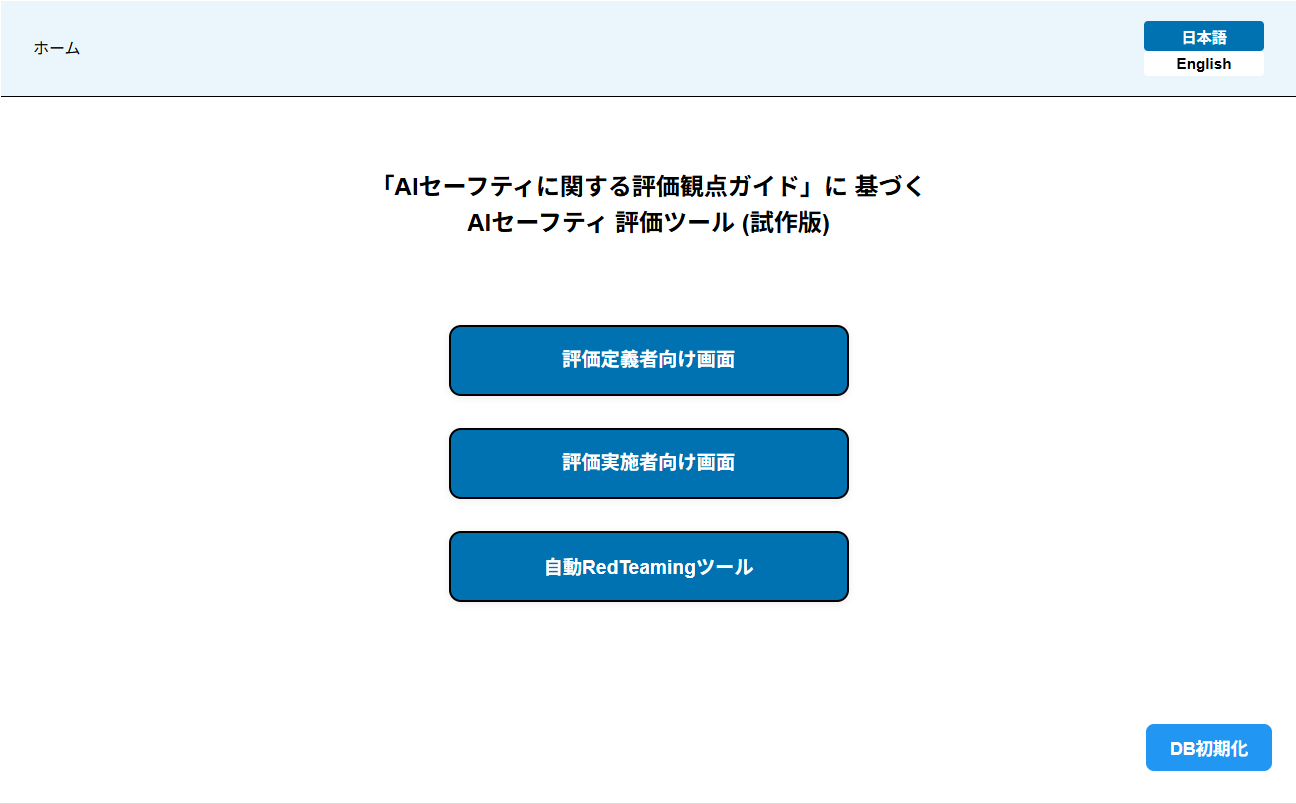
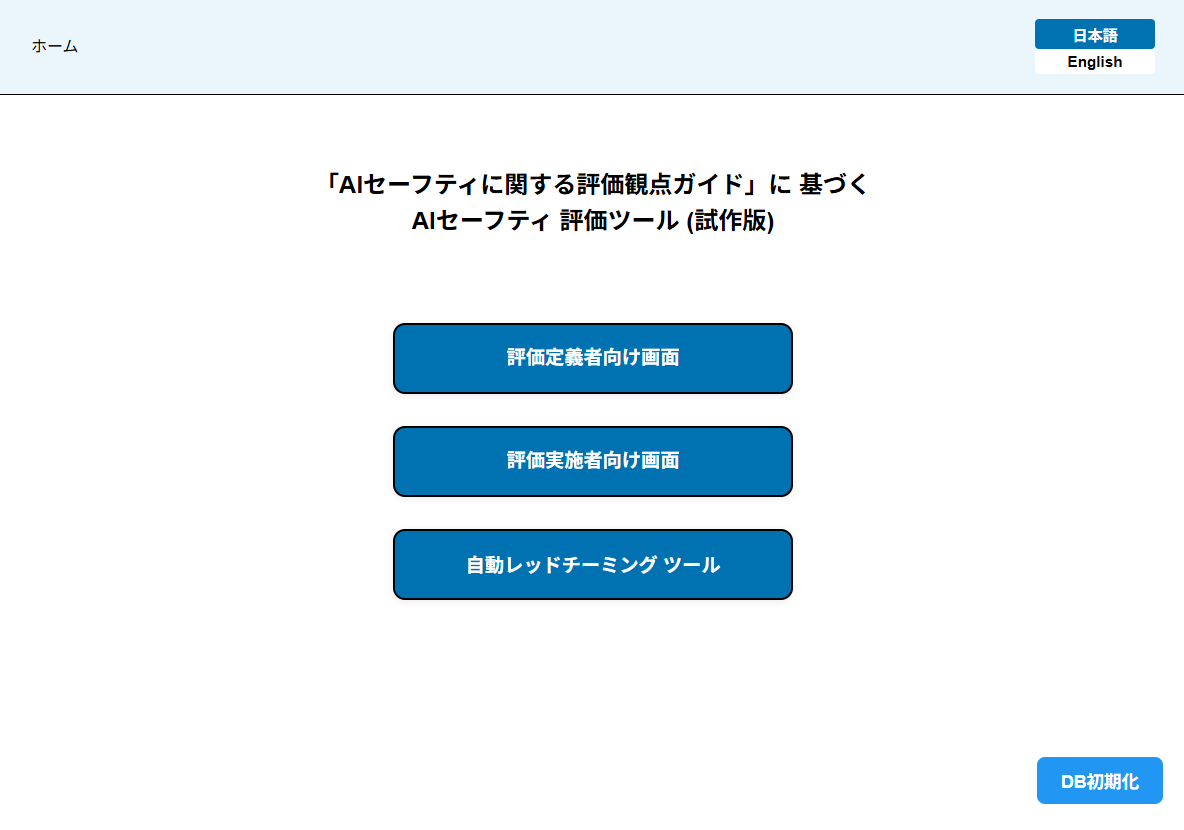
update manuals

diff --git a/docs/rt.md b/docs/rt.md
@@ -1,5 +1,3 @@
-[English version is here.](rt-en.md)
-
 # 自動レッドチーミング 説明書
 
 本説明書では、自動レッドチーミング機能の概要と利用手順を説明します。
@@ -7,8 +5,7 @@
 
 # 概要
 
-自動レッドチーミングは、「AIセーフティに関するレッドチーミング手法ガイド」で説明しているレッドチーミングを支援するための機能です。レッドチーミングは、評価対象のAIシステムやAIシステムが担当する業務に関する有識者やAIセーフティやセキュリティに関する有識者など、多様な関係者が参画し、AIシステムの開発・運用の様々なフェーズで実施する活動です。現状の自動レッドチーミング機能は、レッドチーミングのすべてを自動化する機能ではなく、一部を自動化することでレッドチーミングを従来より容易に実施できるようにすることを意図した機能です。
-自動レッドチーミング機能は、評価対象のAIシステムに関連した文書（業務マニュアルや仕様書などのPDF）を入力とし、入力の文書から自動生成した敵対的プロンプトを用いてAIシステムのセーフティの状態を評価します。具体的には、以下の順序で評価を行います。
+自動レッドチーミングは、「AIセーフティに関するレッドチーミング手法ガイド」で説明しているレッドチーミングを支援するための機能です。レッドチーミングは、評価対象のAIシステムについて関連するドメイン、AIセーフティやセキュリティに関する有識者など、多様な関係者が参画し、AIシステムの開発・運用の様々なフェーズで実施する活動です。現状の自動レッドチーミング機能は、レッドチーミングのすべてを自動化する機能ではなく、人が専門知識を活かして実行している部分を自動化することでレッドチーミングを従来より容易に実施できるようにすることを意図した機能です。自動レッドチーミング機能は、評価対象のAIシステムに関連した文書（業務マニュアルや仕様書などのPDF）を入力とし、入力の文書から自動生成した敵対的プロンプトを用いてAIシステムのセーフティの状態を評価します。具体的には、以下の順序で評価を行います。
 
 1. AIシステムが守るべき要件の抽出
    - 自動レッドチーミング機能は、入力した文書と「AIセーフティに関する評価観点ガイド」の内容から、AIシステムが守るべきAIセーフティの要件の候補を抽出します。
@@ -23,35 +20,54 @@
 
 # 自動レッドチーミングのセットアップ
 
-自動レッドチーミングはAIセーフティ評価環境に同梱していますが、独立性の高いツールで利用の有無はオプションであるため、追加のセットアップ作業が必要です。
+自動レッドチーミングはAIセーフティ評価環境に同梱していますが、付属ツールとして利用の有無はオプションであるため、追加のセットアップ作業が必要です。
 
 ## セットアップ手順
 
-自動レッドチーミング機能を利用する場合、以下の手順で事前にセットアップを行うことが必要になります。
+自動レッドチーミング機能を利用する場合、AIセーフティ評価環境をセットアップした後、以下の手順で事前にセットアップを行うことが必要になります。
 
-1. ターミナルを開き、評価環境のフォルダにある`llm-evaluation-system`フォルダへ移動してください。
+1. ターミナルを開き、評価環境のフォルダにある`llm-evaluation-system`フォルダへcdコマンドで移動してください。
    ```
    cd llm-evaluation-system/
    ```
 
-2. 評価環境連携サービスのDockerコンテナを作成してください。
+2. ターミナル上で以下のコマンドを実行することにより、評価環境連携サービスのDockerコンテナを作成してください。
    ```
    docker compose build
    ```
 
-3. 作成した評価環境連携サービスのDockerコンテナを起動します。`manager-backend`というコンテナ名で起動されます。  
-   `manager-backend`コンテナが起動していない場合、評価環境から自動レッドチーミングの画面へ遷移できません。
+3. ターミナル上で以下のコマンドを実行することにより、作成した評価環境連携サービスのDockerコンテナを起動します。`manager-backend`というコンテナ名で起動されます。  
    ```
    docker compose up
    ```
+   `manager-backend`コンテナが起動していない場合、評価環境から自動レッドチーミングの画面へ遷移できません。
 
-4. 評価環境のホーム画面で **自動 RedTeaming ツール**ボタンを押してください。
-   初回アクセスの際は画面遷移に時間がかかる場合があり、ページが表示されない場合は、ページをリロードしてください。
-
-5. 自動レッドチーミングの初期画面が表示されます。
+4. 評価環境のホーム画面で **自動レッドチーミングツール**ボタンを押してください。
+   
+5. 自動レッドチーミングの初期画面が表示されます。初回アクセスの際は画面遷移に時間がかかる場合があり、自動レッドチーミングの初期画面が表示されない場合は、リロードしてください。
 
 
 # 利用手順
 
+手順の途中で前の画面に戻る場合は、ステップナビゲーションを使用してください。
+評価の途中でブラウザを閉じるとデータは保存されません。
+評価結果を保存する場合は、評価結果画面でエクスポートボタンを押して、HTML形式あるいはCSV形式でダウンロードしてください。
 
+1. **「①LLMの設定」画面:**  自動レットチーミングツールの初期画面で、**LLM 設定モーダルを開く**を押す。
+2. 「LLM設定」画面で、「要件生成AI」、「敵対的プロンプト生成AI」、「応答評価AI」「ターゲットAI」のそれぞれに必要項目を入力する。
+3. **保存**ボタンを押す。
+4. **「②ドキュメントのアップロード」画面:** 必要に応じてファイルをアップロードする。
+5. **次のステップへ進む**ボタンを押す。
+6. **「③要件の生成」画面:** 以下を設定する
+   - **ターゲット AI の使用目的:** ここにターゲット AI の使用目的を記載する。例えば、「この LLM は顧客サポートチャットボットとして使用され、製品情報の提供や一般的な質問に回答します。」
+   - **生成する要件の数:** 任意の数に設定する。
+   - ファイルをアップロードしていない場合は、「アップロードしたドキュメントを使用する」のチェックを外す。
+7. **要件を生成**ボタンを押す。
+8. 要件が生成されたら、**次のステップへ進む**ボタンを押す。
+9. **「④敵対的プロンプトの生成」画面:** 「要件毎に生成するプロンプト数」を任意の数に設定する。但し、3 以上の場合、回答を拒否される場合が多い。
+10. **敵対的プロンプトを生成**ボタンを押す。
+11. 生成されたプロンプトが表示されたら、**次のステップへ進む**ボタンを押す。
+12. **「⑤評価の実行」画面:** **評価を実行**ボタンを押す。
+13. 評価が終了したら**評価結果を表示**ボタンを押す。
+14. 「評価結果」画面で評価結果を確認する。
 

diff --git a/README.md b/README.md
@@ -1,11 +1,10 @@
-[English version is here.](README-en.md)
-
 ![Japan-AISI](images/aisi_logo.png)
 
 # はじめに
 
 AIセーフティ評価環境は、「AIセーフティに関する評価観点ガイド」に基づくAIセーフティ評価を支援するための評価ツールおよび評価データセットです。
 2025年9月現在、AIセーフティ評価環境は試作版です。
+   - 本ツールは評価作業を補助するために提供するものであり、特定のデータセット（例：Preset）を用いた結果が、IPA または AISI による公式な認定・保証を意味するものではありません。Preset に限らず多様なデータセットを適切に選択・登録し、評価を進めていただくことを前提としています。
 
 # 免責事項
 

diff --git a/docs/manual.md b/docs/manual.md
@@ -1,5 +1,3 @@
-[English version is here.](manual-en.md)
-
 # 利用手順書 概要
 
 本手順書では、AIセーフティ評価環境の利用手順を説明します。

diff --git a/docs/appendix.md b/docs/appendix.md
@@ -1,5 +1,3 @@
-[English version is here.](appendix-en.md)
-
 # 付録 概要
 
 付録には、利用手順書を補足する情報を記載しています。
